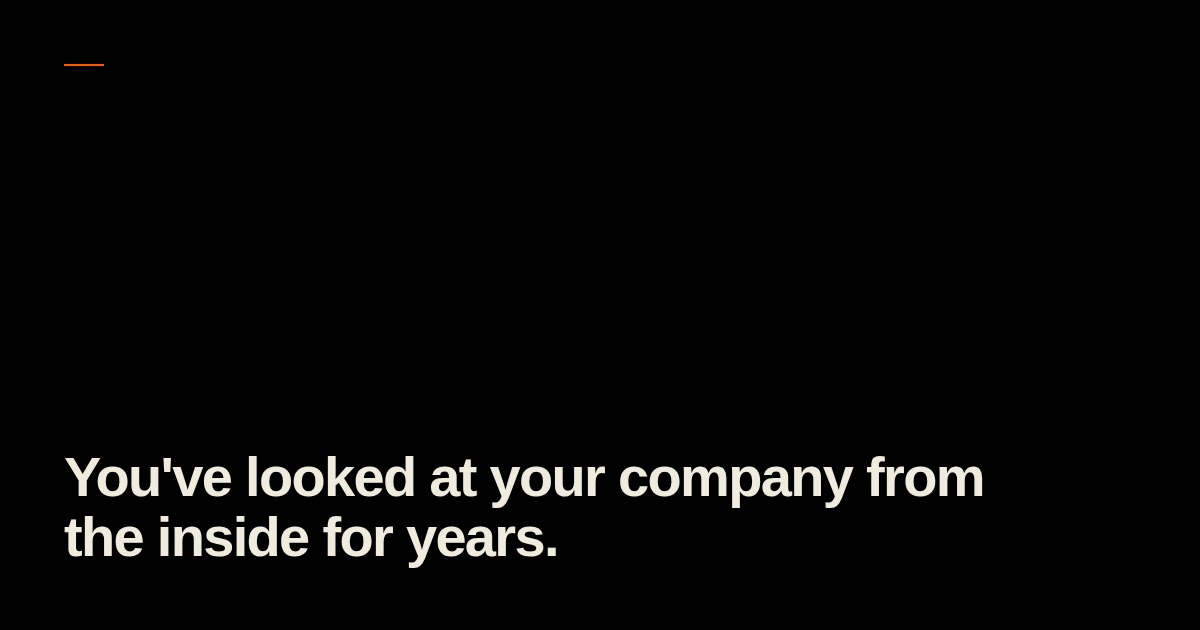
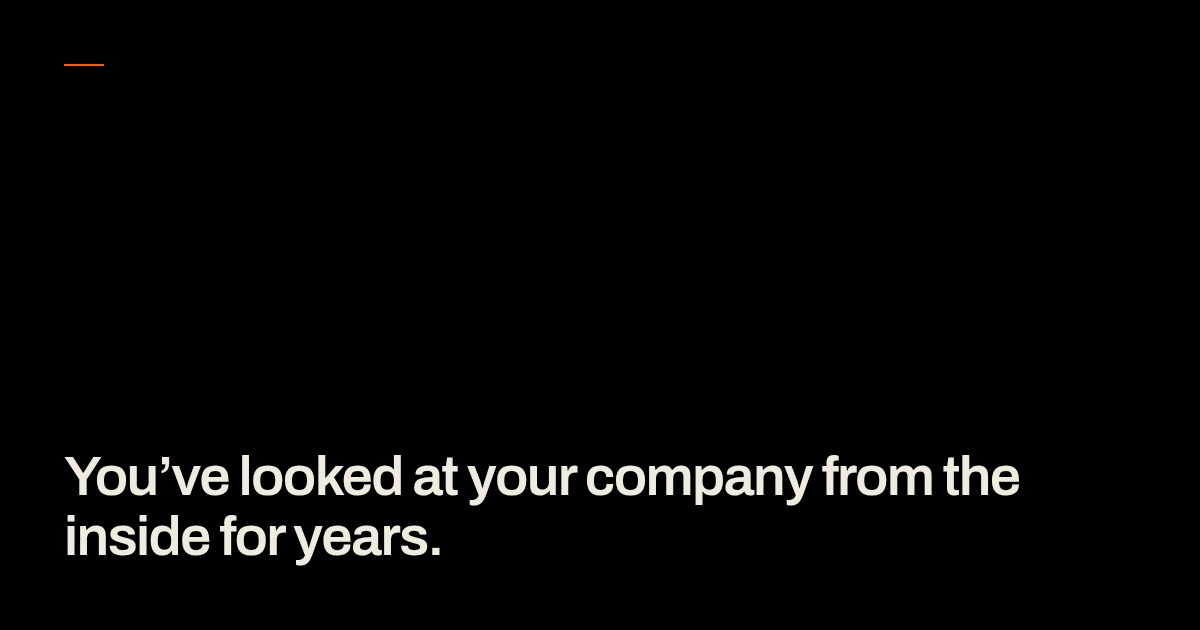
F56 · pack · Jack StartHere + og typography real + portrait mobile 160px
Tres fixes de QA pedidos por Fran (3-oct) · acá en un pack:

1. src/components/StartHere.tsx · agrega CASE_START_HERE['jack-yeager']
   con el h2 genérico de /services: "Not sure which of the four fits?"
   sin proof/source. Antes Jack era el único case sin entry en la Record
   y por eso WorkLayout no renderizaba StartHere para él. Verificado
   por scripts/f56-jack-shots.mjs @ 390 + 1440 (captura del bloque
   recortado en scripts/.f56-qa/jack-starthere-{390,1440}.png).

2. scripts/f56-og-image.mjs · regenera /public/second-look-og.jpg con
   la tipografía real del sitio (Archivo via next/font) en lugar de
   Google Fonts CDN. Técnica: cargamos /second-look con Playwright
   para que next/font meta --font-archivo en html, luego reemplazamos
   el body con el fragmento del og. NO borramos los stylesheets
   externos (ahí vive la definición de la variable). Explicit
   font-family en el h1 para pisar el default Instrument Serif que
   globals.css setea para h1. Apóstrofe curvo U+2019 verbatim brief.

3. app/second-look/second-look.css · retrato .sl-portrait en mobile
   (≤767px) baja de 380px (full-width) a 160px. En 390×844 el h1,
   lead, rule, body y botón "See how it works" quedan todos dentro
   del primer pantallazo (verificado por scripts/f56-mobile-fold.mjs:
   portrait bottom=301, h1 bottom=445, btn bottom=786 vs 844 fold).

Scripts nuevos (gitignored outputs):
- scripts/f56-deck-inspect.mjs · investiga anomalía deck 390 0 diff.
[…]

Changed region(s): [[0.0308, 0.7238, 0.8633, 0.9048]]

diff --git a/app/second-look/second-look.css b/app/second-look/second-look.css
@@ -154,6 +154,15 @@ body:has(.sl-page) .page-root { padding: 0 !important; }
 }
 .sl-portrait--sm { width: min(100%, 240px); }
 
+/* F56 (Fran 3-oct) · en mobile 390 el retrato va a 160px para que
+   el h1 entre en el primer pantallazo (medido en 390×844). El 4:5
+   mantiene el retrato en 160×200. El h1 (clamp 36px) y el lede
+   quedan dentro de ~700px de alto total con top-bar + padding. */
+@media (max-width: 767px) {
+  .sl-portrait { width: 160px; }
+  .sl-portrait--sm { width: 120px; }
+}
+
 /* PASO 2 · tres columnas + grilla + línea */
 .sl-three {
   display: grid;

diff --git a/src/components/StartHere.tsx b/src/components/StartHere.tsx
@@ -79,6 +79,11 @@ export const CASE_START_HERE: Record<string, StartHereProps> = {
   'juan-pablo-romero': {
     h2: 'Bringing a Latin American brand into the US market?',
   },
+  /* F56 (Fran 3-oct) · Jack sin h2 específico de caso. Usa el h2
+     genérico del plano START HERE de /services. Sin proof/source. */
+  'jack-yeager': {
+    h2: 'Not sure which of the four fits?',
+  },
   inout: {
     h2: 'Launching a new line under a name the market already knows?',
     proof:
